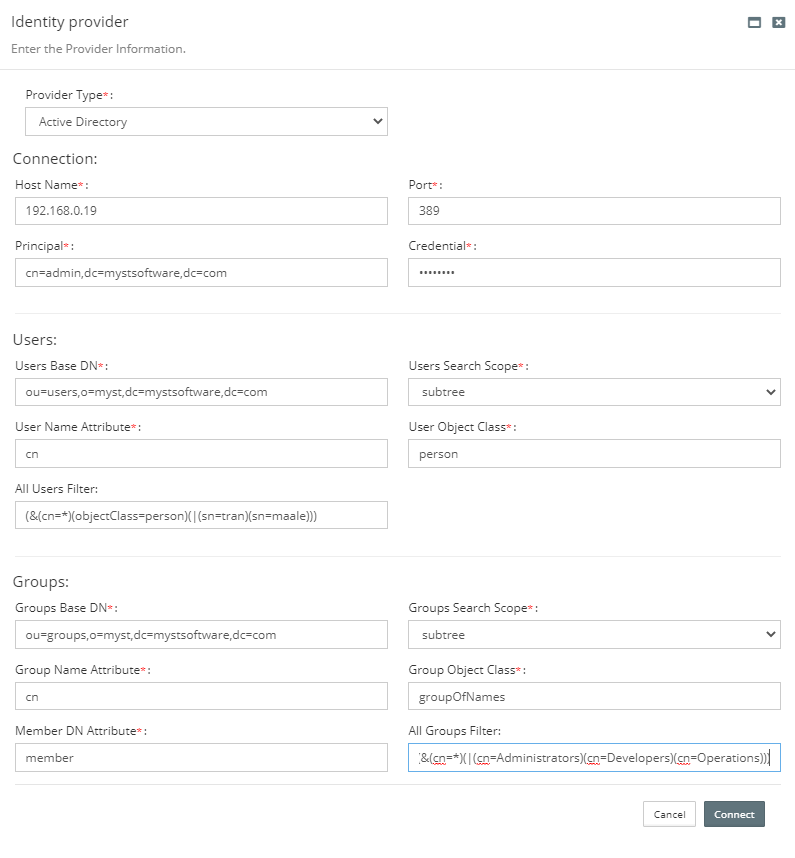
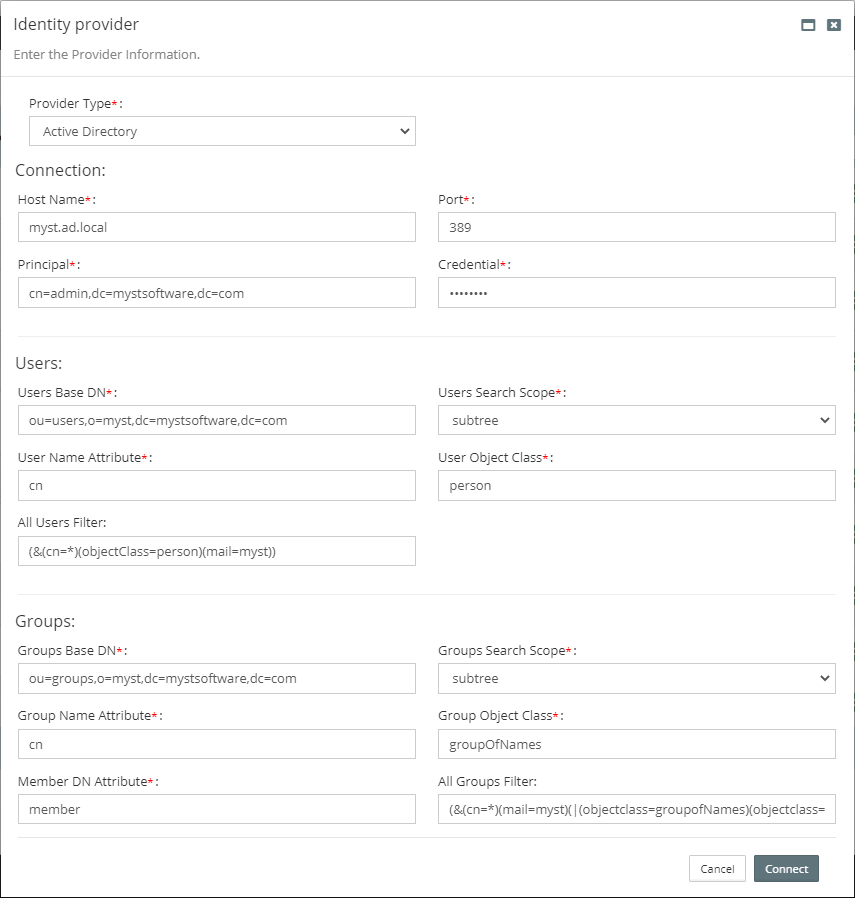
FC-6607 updated docs

diff --git a/administration/ad/README.md b/administration/ad/README.md
@@ -1,86 +1,150 @@
-# {{ page.title }}
+# Connecting Myst to an Active Directory Domain
 
-After logging into the studio as Administrator.  
+1. Login as Administrator
 
-Go to Administration -> Users -> Provider.
+2. Go to **Administration** -> **Users**
 
-Now you need to fill the details as per your AD Configuration.
+3. Click ![](img/provider.png)
 
-A sample configuration is given below for your reference.
+4. Fill in the Active Directory details.
+
+### Example Configuration
 
 ![](img/configuration.png)
 
+| Name                 | Value                                     |
+|----------------------|-------------------------------------------|
+|**Connection**|---------------------------------------------------|
+| Port                 | `myst.ad.local`                           |
+| Port                 | `389`                                     |
+| Principal            | `cn=admin,dc=mystsoftware,dc=com`         |
+| Credential           | `Welcome1`                                |
+|**Users**|----------------------------------------------------|
+| User Base DN         | `ou=users,o=myst,dc=mystsoftware,dc=com`  |
+| User Name Attribute  | `cn`                                      |
+| User Object Class    | `person`                                  |
+| All Users Filter    | `(&(cn=*)(objectClass=person)(mail=myst))` |
+|**Groups**|----------------------------------------------------|
+| Groups Base DN       | `ou=groups,o=myst,dc=mystsoftware,dc=com` |
+| Group Name Attribute | `cn`                                      |
+| Group Object Class   | `groupOfNames`                            |
+| Member DN Attribute  | `member`                                  |
+| All Groups Filter    | `(&(cn=*)(mail=myst)(|(objectclass=groupofNames)(objectclass=orcldynamicgroup)))`        |
 
 
-## User Filter and Group Filte
+# Configuring the Roles
 
-Instead or fetching all the users and groups from AD, certian users and groups can be fetched and associated to MyST.  
-This can be achieved by the usage of User and Group filters which are in handy use.  
+When Active Directory (AD) is integrated with Myst the AD groups synchronise.
+* The default workspace will be populated with **Users**
+* **Users** will be placed in their respective **Roles**
 
-Below sample will help to understand the usage of filters.  
+## Myst Roles
 
-Users before AD integration.  
+Configure the new **Roles** (synchronised from Active Directory) with the appropriate permissions. Example below:
 
-![](img/users.png)  
+![](img/myst_roles.png)
 
-Users after AD integration successful connection and can be seen in MyST under Administration -> Users.
+## Myst System Role
 
-### User Filter
+Similar to Myst Roles, the Myst _System_ Roles can be configured and assigned to users. Example below:
 
-Let's understand more by below example.
+![](img/myst_system_roles.png)
 
-Out of ennumber of users in AD you are looking for set of users.  
-Use User filter to filter the users easily.
+# New Users in Active Directory
 
-![](img/userFilterExample.png)  
+New users added into Active Directory will automatically synchronise with Myst on login. The user will be assigned to the **Default** workspace and associated to their role.
 
-In the above screenshot we are expecting users with sn **david**, **maale**
+1. Add new user to Active Directory along with their group
+2. User logs into Myst
+   1. Myst automatically synchronises the user/role(s)
+   2. Synchronises to the **Default** (`6fafeb5a-0bcb-4683-8f57-e287ea7eebaf`) workspace
 
-After filtering the users obtained are  
+![](img/workspace.png)
 
-![](img/userFilter.png)
- 
-Similarly, use Group filter for filtering groups.
-  
-![](img/groupFilterExample.png)  
+# Known Issues and Limitations
 
-In the above screenshot we are expecting groups with cn **Administrators**, **Developers**, **Operations**.
+Log any issues or improvements to [https://rubiconred.freshdesk.com/](https://rubiconred.freshdesk.com/).
 
-After filtering groups obtained are  
+## Synchronisation
 
-![](img/groupFilter.png)
+### Deleting Users from Active Directory
+
+###### Use Case
+
+User leaves team.
+
+###### Issue
+
+FC-6609 - Myst does not synchronise deleted users.
+
+###### Workaround
+
+Delete or retire the users manually via Myst
+
+### Moving a User to a different group
+
+###### Use Case
+
+User changes team.
+
+###### Issue
+
+FC-6612 - Changing a User to a different group does not synchronise in Myst. The user will remain in the same role.
+
+###### Workaround
+
+Manually change the user in Myst to the desired role.
+
+### Changing the User and Group filters
+
+###### Use Case
+
+Myst admin incorrectly applies a filter and wants to apply a new filter.
+
+###### Issue
+
+FC-6612 - Changing the User and Group filter does not remove existing Myst users and roles. Users and Groups in the new filter will added into Myst.
+
+###### Workaround
+
+Manually delete users and groups that should be filtered out.
+
+### Synchronises only to Myst 'Default' workspace
+
+###### Use Case
+
+Myst has multiple workspaces where different users should be assigned.
+
+###### Issue
+
+FC-6613 - Allow a configurable default workspace along with a configurable Active Directory attribute.
+
+###### Workaround
+
+Manually delete the users and roles from the Default workspace and assign to the preferred workspace.
 
 
 
-## New User/Group addition
+## Connectivity Issues
 
-Thinking what happens when a new user is added to AD?  
+###### Issue
 
-Simple when you try to login into MyST, it automatically syncronize the newly added Users or Group into the MyST.  
+FC-6610 - No error when Myst fails connecting to Active Directory.
 
-Below images gives you detailed idea of how it works.  
+###### Workaround
 
-Adding new user to AD(In this case using Apache Studio for adding user to AD)  
-
-Below screenshot show's a new User **saketh** is added and a new Group **Deployer** is added and assigned user **saketh** to it.
-
-![](img/newUser.png)  
-
-![](img/newGroup.png)  
-
-When user **saketh** tries to login to MyST studio, he can successfully login into it, because of MyST's syncronization ability. And user **saketh** is associated to group **Deployer** .
+Check the Myst Studio docker container logs for errors.
 
 
-![](img/userLogin.png)  
+
+## Disabling AD Integration
+
+###### Issue
+
+FC-6611 - No ability to disable AD integration.
+
+###### Workaround
+
+Use an invalid hostname in the Myst provider configuration to prevent further connections to Active Directory.
 
 
-![](img/newUserSuccessfullLogin.png)  
-
-
-![](img/newUserSync.png)  
-
-
-![](img/newGroupSync.png)  
-
-
-![](img/newUserGroupsync.png)  
